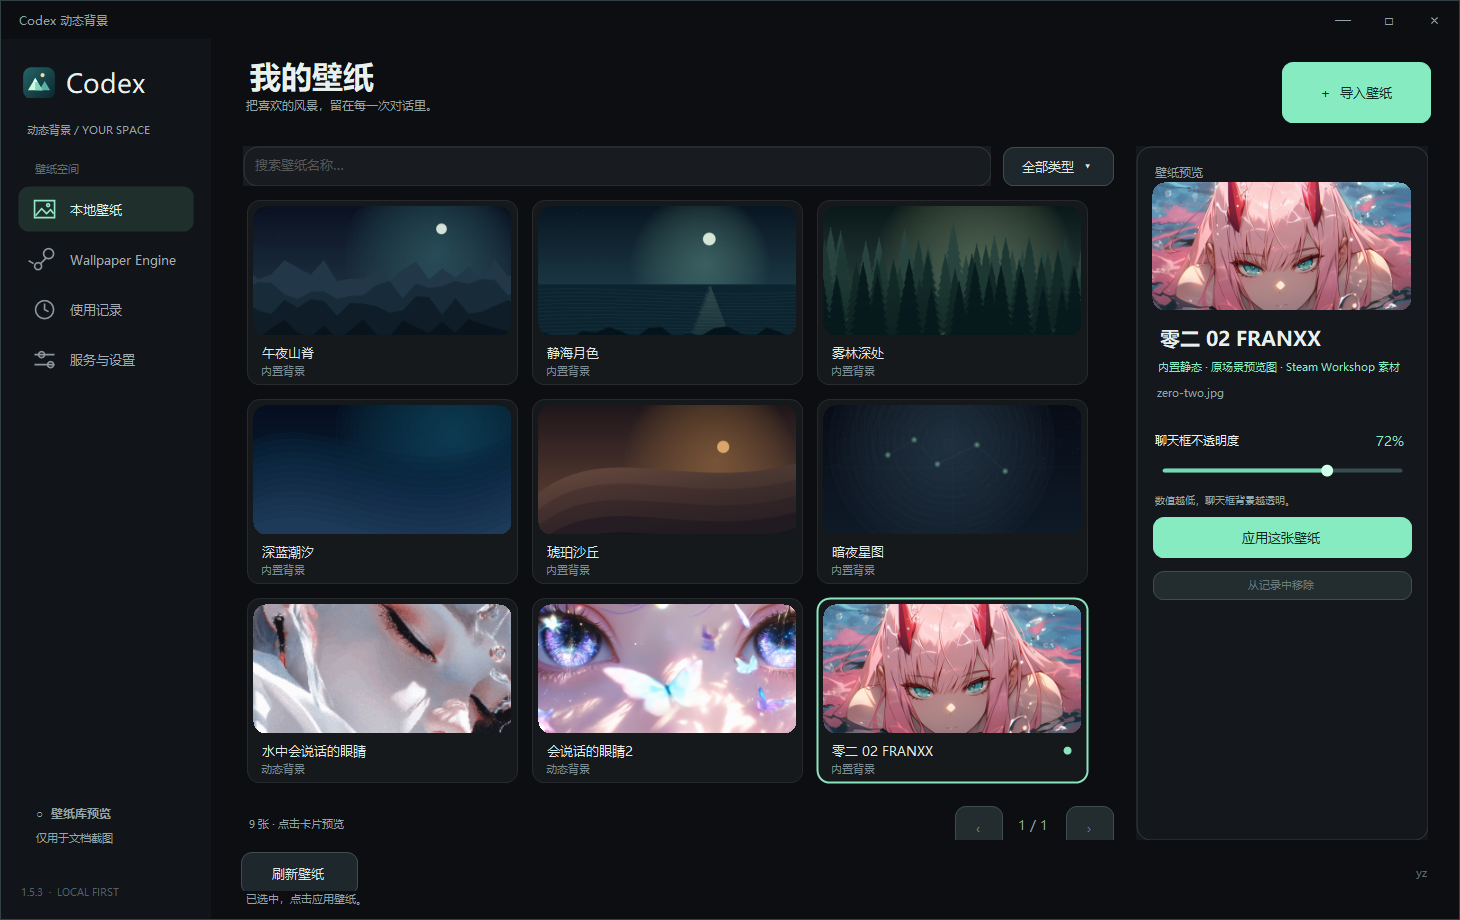
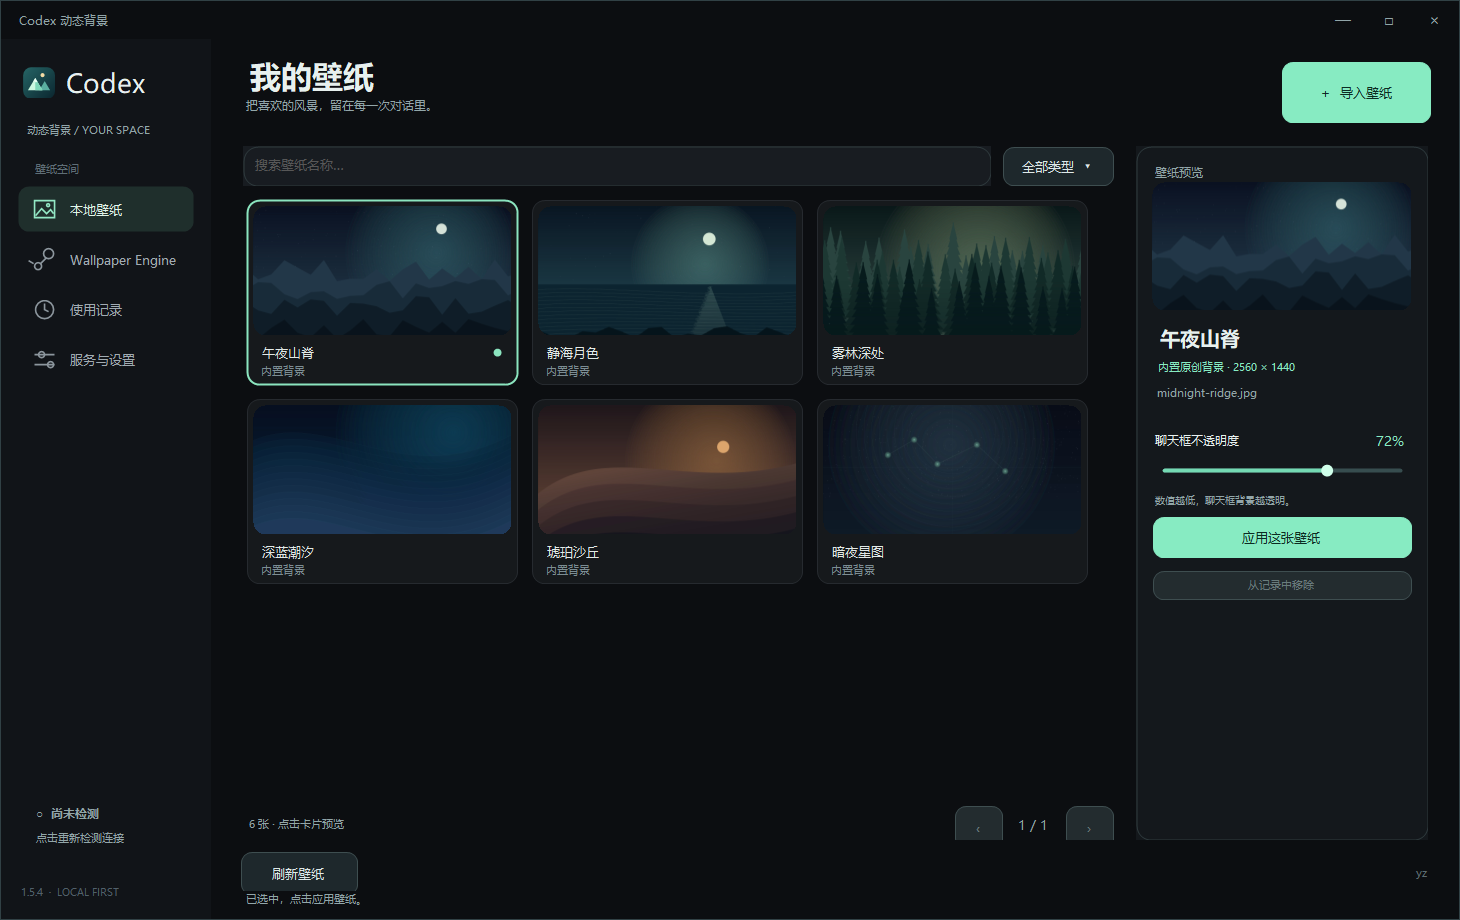
fix: remove oversized bundled Workshop wallpapers

diff --git a/tests/WallpaperLibraryTests.cs b/tests/WallpaperLibraryTests.cs
@@ -33,9 +33,7 @@ internal static class WallpaperLibraryTests {
         foreach(string id in new[]{"midnight-ridge","quiet-moon","forest-mist","blue-tide","amber-dunes","star-atlas"})File.WriteAllText(Path.Combine(package,"wallpapers",id+".jpg"),"generated fixture");
         foreach(string file in new[]{"water.mp4","water.gif","eyes.mp4","eyes.jpg","zero.jpg"})File.WriteAllText(Path.Combine(bundle,file),"independent installed fixture");
         File.WriteAllText(Path.Combine(bundle,"catalog.json"),new JavaScriptSerializer().Serialize(new{schema=1,wallpapers=new[]{new{id="water",name="水中会说话的眼睛",file="water.mp4",thumbnail="water.gif",note="内置动态"},new{id="eyes",name="会说话的眼睛2",file="eyes.mp4",thumbnail="eyes.jpg",note="内置动态"},new{id="zero",name="零二",file="zero.jpg",thumbnail="zero.jpg",note="内置静态"}}}),Encoding.UTF8);
-        var defaults=WallpaperLibrary.Builtins(package);Require(defaults.Count==9&&defaults.Count(x=>x.Animated)==2,"Installed catalog did not expose nine defaults / two videos");Require(defaults.All(x=>x.Path.StartsWith(package)&&x.Available&&File.Exists(x.Thumbnail)),"Built-ins depend on the original Steam drive");cases++;
-        var bundledVideo=defaults.Single(x=>x.Id=="builtin-water");library.Applied(bundledVideo);string relocated=Path.Combine(sandbox,"relocated-install");Directory.Move(package,relocated);var shifted=WallpaperLibrary.Builtins(relocated);library.RemapBuiltins(shifted);var savedVideo=library.Snapshot().Single(x=>x.Id==bundledVideo.Id);Require(savedVideo.Available&&savedVideo.Kind=="video"&&savedVideo.Thumbnail.EndsWith("water.gif")&&File.Exists(savedVideo.Thumbnail),"Upgrade lost bundled video thumbnail");cases++;
-        File.WriteAllText(Path.Combine(relocated,"wallpapers","bundled","catalog.json"),new JavaScriptSerializer().Serialize(new{schema=1,wallpapers=new[]{new{id="unsafe",name="unsafe",file="..\\outside.mp4",thumbnail="eyes.jpg",note="unsafe"}}}),Encoding.UTF8);Require(WallpaperLibrary.Builtins(relocated).Count==6,"Bundled catalog escaped its installation directory");cases++;
+        var defaults=WallpaperLibrary.Builtins(package);Require(defaults.Count==6&&defaults.All(x=>!x.Animated&&!x.Path.Contains("bundled")),"Retired bundled catalog reappeared after upgrade");Require(File.Exists(Path.Combine(bundle,"water.mp4")),"Catalog filtering deleted source media");cases++;
         if(args.Length>1){var live=SteamWallpapers.Scan(SteamWallpapers.DiscoverRoots(new string[0]),()=>false);Console.WriteLine(new JavaScriptSerializer().Serialize(new{liveSteam=true,roots=live.WorkshopRoots.Count,wallpapers=live.Entries.Count,videos=live.Entries.Count(x=>x.Kind=="video"),images=live.Entries.Count(x=>!x.Animated),scenePreviews=live.Unsupported,invalid=live.Invalid}));}
         Console.WriteLine(new JavaScriptSerializer().Serialize(new{pass=true,cases=cases,history=true,sourcePreserved=true,secondarySteamLibrary=true,sceneLabeled=true,traversalRejected=true,malformedIsolated=true,cancellable=true}));return 0;
     }

diff --git a/source/WallpaperLibrary.cs b/source/WallpaperLibrary.cs
@@ -69,23 +69,8 @@ internal sealed class WallpaperLibrary {
         string[] ids={"midnight-ridge","quiet-moon","forest-mist","blue-tide","amber-dunes","star-atlas"};
         string[] names={"午夜山脊","静海月色","雾林深处","深蓝潮汐","琥珀沙丘","暗夜星图"};
         for(int i=0;i<ids.Length;i++){string path=System.IO.Path.Combine(folder,ids[i]+".jpg");if(File.Exists(path))result.Add(new WallpaperEntry{Id="builtin-"+ids[i],Name=names[i],Path=path,Thumbnail=path,Source="builtin",Kind="image",Note="内置原创背景 · 2560 × 1440"});}
-        string bundled=System.IO.Path.Combine(folder,"bundled"),catalog=System.IO.Path.Combine(bundled,"catalog.json");
-        try{
-            if(File.Exists(catalog)&&new FileInfo(catalog).Length<=65536){
-                var data=new JavaScriptSerializer().Deserialize<BundledCatalog>(File.ReadAllText(catalog,Encoding.UTF8));
-                if(data!=null&&data.schema==1&&data.wallpapers!=null&&data.wallpapers.Count<=20)foreach(var item in data.wallpapers){
-                    if(item==null||!Regex.IsMatch(item.id??"","^[a-z0-9-]{1,64}$")||String.IsNullOrWhiteSpace(item.name)||item.name.Length>160)continue;
-                    string media=BundledPath(bundled,item.file),thumbnail=BundledPath(bundled,item.thumbnail),kind=MediaKind(item.file??"");
-                    if(media==null||thumbnail==null||(kind!="video"&&kind!="image")||result.Any(x=>x.Id=="builtin-"+item.id))continue;
-                    result.Add(new WallpaperEntry{Id="builtin-"+item.id,Name=item.name,Path=media,Thumbnail=thumbnail,Source="builtin",Kind=kind,Note=item.note??"内置背景"});
-                }
-            }
-        }catch(IOException){}catch(ArgumentException){}catch(InvalidOperationException){}
         return result;
     }
-    static string BundledPath(string folder,string file){if(String.IsNullOrEmpty(file)||System.IO.Path.IsPathRooted(file)||System.IO.Path.GetFileName(file)!=file||file.IndexOfAny(System.IO.Path.GetInvalidFileNameChars())>=0)return null;string full=System.IO.Path.Combine(folder,file);return File.Exists(full)?full:null;}
-    sealed class BundledCatalog {public int schema=0;public List<BundledItem> wallpapers=null;}
-    sealed class BundledItem {public string id=null,name=null,file=null,thumbnail=null,note=null;}
 }
 
 internal sealed class SteamScanResult {

diff --git a/tests/LightweightDefaultsTests.cs b/tests/LightweightDefaultsTests.cs
@@ -1,0 +1,13 @@
+using System;
+using System.IO;
+using System.Linq;
+using System.Web.Script.Serialization;
+internal static class LightweightDefaultsTests {
+    public static int Main(string[] args){
+        string root=Path.GetFullPath(args[0]);var entries=WallpaperLibrary.Builtins(root);
+        if(entries.Count!=6||entries.Any(x=>x.Animated))throw new Exception("Lightweight release must contain only six original defaults");
+        foreach(var item in entries)if(!item.Available||!File.Exists(item.Thumbnail)||!item.Path.StartsWith(root+Path.DirectorySeparatorChar,StringComparison.OrdinalIgnoreCase)||!item.Thumbnail.StartsWith(root+Path.DirectorySeparatorChar,StringComparison.OrdinalIgnoreCase))throw new Exception("Default media depends on an external path");
+        if(Directory.Exists(Path.Combine(root,"wallpapers","bundled")))throw new Exception("Retired media directory is still shipped");
+        Console.WriteLine(new JavaScriptSerializer().Serialize(new{pass=true,defaults=6,videos=0,sourceIndependent=true,thumbnailsPresent=true,retiredAssetsAbsent=true}));return 0;
+    }
+}

diff --git a/docs/bundled-wallpapers.md b/docs/bundled-wallpapers.md
@@ -1,6 +1,8 @@
-# 附带壁纸与素材来源
+# v1.5.3 历史附带素材
 
-安装包提供六张由 `BuiltinWallpapers.cs` 生成的原创背景，以及用户指定的以下三项素材。两段视频保留 3840×2160、60 FPS 和完整时长，均为 H.264 MP4。静态图来自原场景的预览图。
+**v1.5.4 起，以下三项已从安装包和默认壁纸库中移除，以减小体积。** 当前版本只保留六张由 `BuiltinWallpapers.cs` 生成的轻量原创背景。用户自己的 Steam 原文件和本地导入功能保留。
+
+以下记录仅说明 v1.5.3 曾附带的素材来源，不代表当前安装包仍包含这些视频或图片。
 
 | 安装后名称 | 类型 | 原项目 |
 | --- | --- | --- |
@@ -10,6 +12,4 @@
 
 这些第三方素材的权利归各自作者、角色和相关权利人所有，不作为本仓库原创作品，也不纳入软件代码的 MIT 授权。仓库中的截图用于展示软件界面。第三项不包含或运行原 `scene.pkg` 场景。
 
-素材随安装包存放于 `wallpapers/bundled`，运行时使用安装目录中的副本，无需原作者本机路径或 Steam。六张原创背景与这三项附带素材都显示在本地壁纸页；安装不会替换用户已选背景。
-
-Git 仓库保留 `source/bundled-wallpapers.json` 中的名称、来源、字节大小及 SHA-256；大体积视频随 Release 安装包/ZIP 分发。源码构建时，将已安装版本或解压后 ZIP 中的 `wallpapers/bundled` 目录传给 `build.ps1 -BundledMediaSource`。构建会校验每个素材，缺失或哈希不匹配时停止。
+历史文件名和校验值见 [v1.5.3 素材清单](https://github.com/chenyan-image/codex-live-background/blob/v1.5.3/source/bundled-wallpapers.json)。当前源码构建不再需要素材目录参数。

diff --git a/README.md b/README.md
@@ -11,7 +11,7 @@
 - **4K 视频背景**：优先使用原画质；电脑无法解码时自动生成兼容副本，并按需降低分辨率。
 - **图片铺满窗口**：横图、方图、竖图都按比例裁切铺满 Codex，覆盖侧栏和对话区域；聊天框透明度可调。
 - **Wallpaper Engine 壁纸库**：自动查找 Steam 库中的视频、GIF 和图片，支持搜索、类型筛选、连续向下滚动和预览。
-- **壁纸记录与内置背景**：保存最近使用的壁纸，附带六张原创背景，以及「水中会说话的眼睛」「会说话的眼睛2」两段 4K / 60 FPS 视频和「零二 02 FRANXX」静态预览图。
+- **壁纸记录与内置背景**：保存最近使用的壁纸，内置六张轻量原创背景，可导入自己的图片和视频。
 - **自动恢复**：服务随 Windows 登录运行，Codex 打开后恢复背景，无需一直开着管理器。
 - **便捷管理**：支持旧版升级、卸载皮肤和卸载服务，保留个人素材与壁纸记录。
 
@@ -48,7 +48,7 @@ Wallpaper Engine 壁纸库（本机实际扫描），向下连续滚动浏览：
 
 ![Wallpaper Engine 连续滚动壁纸库](docs/wallpaper-engine.png)
 
-本地页展示安装包的九张内置壁纸，Wallpaper Engine 页来自本机真实壁纸库。附带的两段视频和零二预览图安装后可直接使用，无需 Steam；[素材来源](docs/bundled-wallpapers.md) 单独列明。其他壁纸可从本机导入，场景项目不播放原场景动画。
+安装包仅附六张轻量原创背景。Wallpaper Engine 页来自本机真实壁纸库，截图中的第三方素材需从自己的电脑导入或扫描；场景项目只能使用预览图。
 
 ## 使用
 

diff --git a/THIRD_PARTY_NOTICES.md b/THIRD_PARTY_NOTICES.md
@@ -27,4 +27,4 @@ Publisher, exact version, checksum, download URL, license texts and upstream sou
 Application icon geometry is adapted from Mountains (duotone) in https://github.com/phosphor-icons/core, MIT licensed. The original SVG and license are in source/assets; release ZIPs also include THIRD_PARTY/Phosphor-LICENSE. Colors and the landscape tile treatment are modifications in this project.
 # 附带壁纸素材
 
-从 v1.5.3 起，安装包另附用户指定的两段 4K / 60 FPS 视频与一张静态预览图。它们来自 Wallpaper Engine Workshop，不属于本仓库原创素材，亦不纳入代码的 MIT 授权。项目链接、类型和安装目录见 [附带壁纸来源](docs/bundled-wallpapers.md)；文件校验值见 `source/bundled-wallpapers.json`。其余六张内置背景由本仓库代码生成。
+仅 v1.5.3 安装包曾附带用户指定的两段 4K / 60 FPS 视频与一张静态预览图；v1.5.4 起已移除。它们来自 Wallpaper Engine Workshop，不属于本仓库原创素材，亦不纳入代码的 MIT 授权。项目链接、类型和安装目录见 [附带壁纸来源](docs/bundled-wallpapers.md)；历史文件校验值保留在 v1.5.3 标签的素材清单中。其余六张内置背景由本仓库代码生成。
